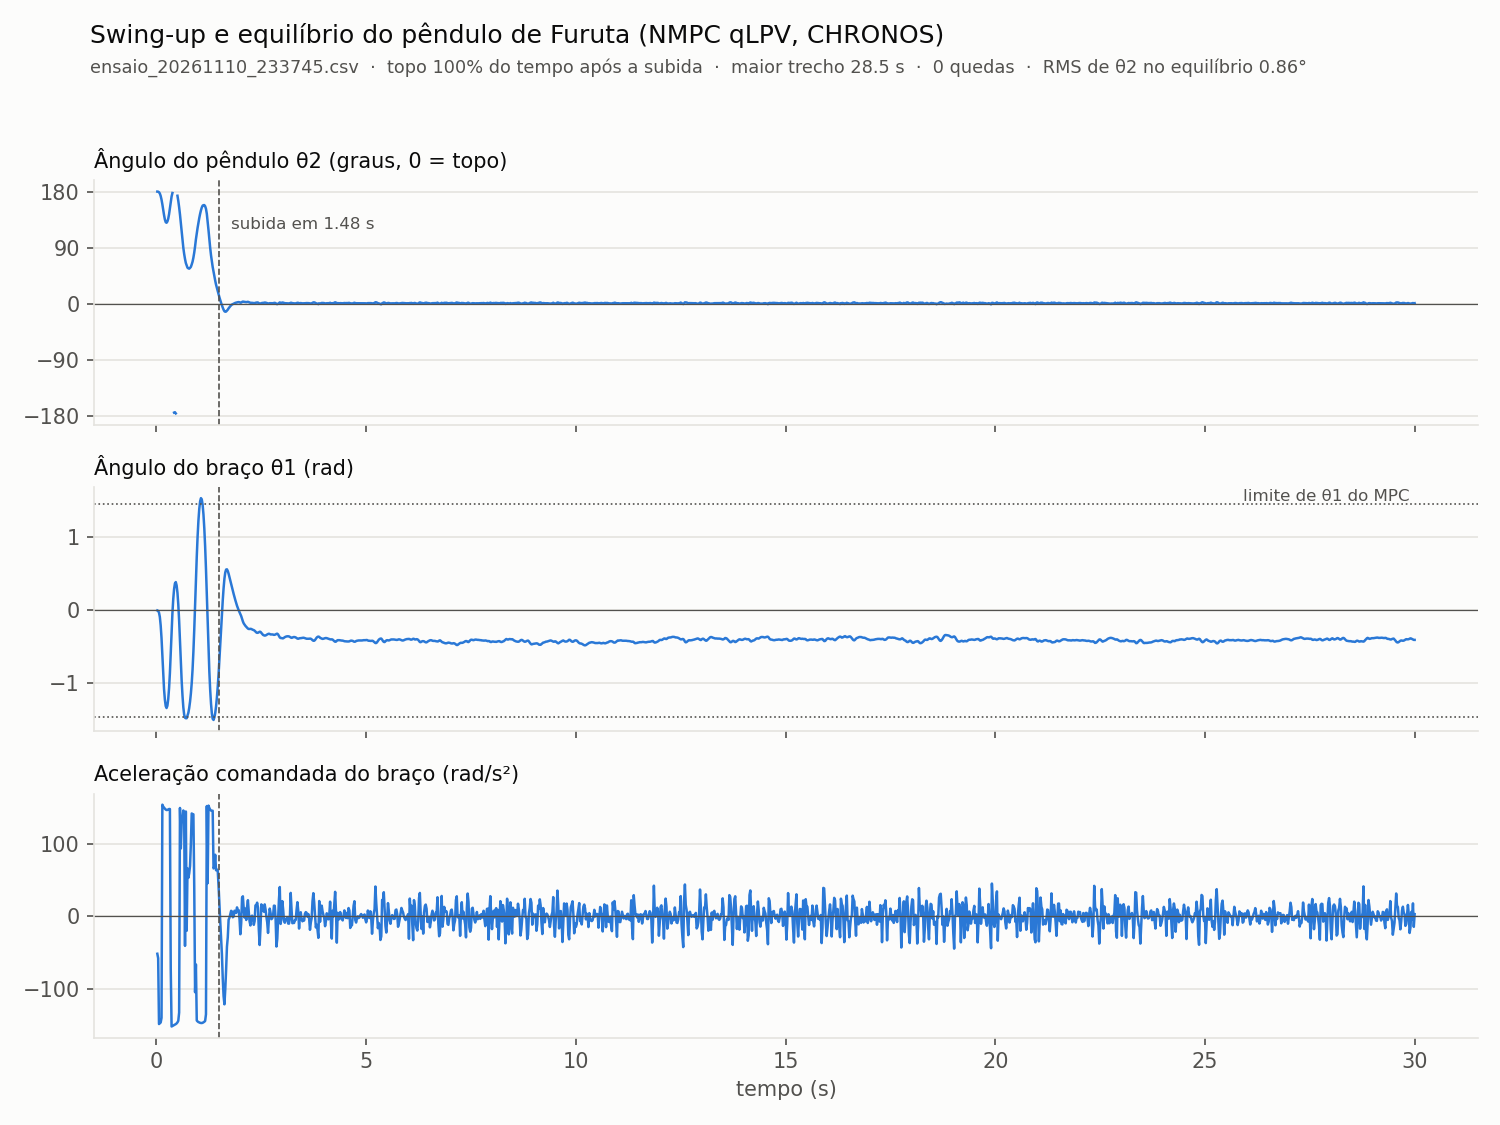
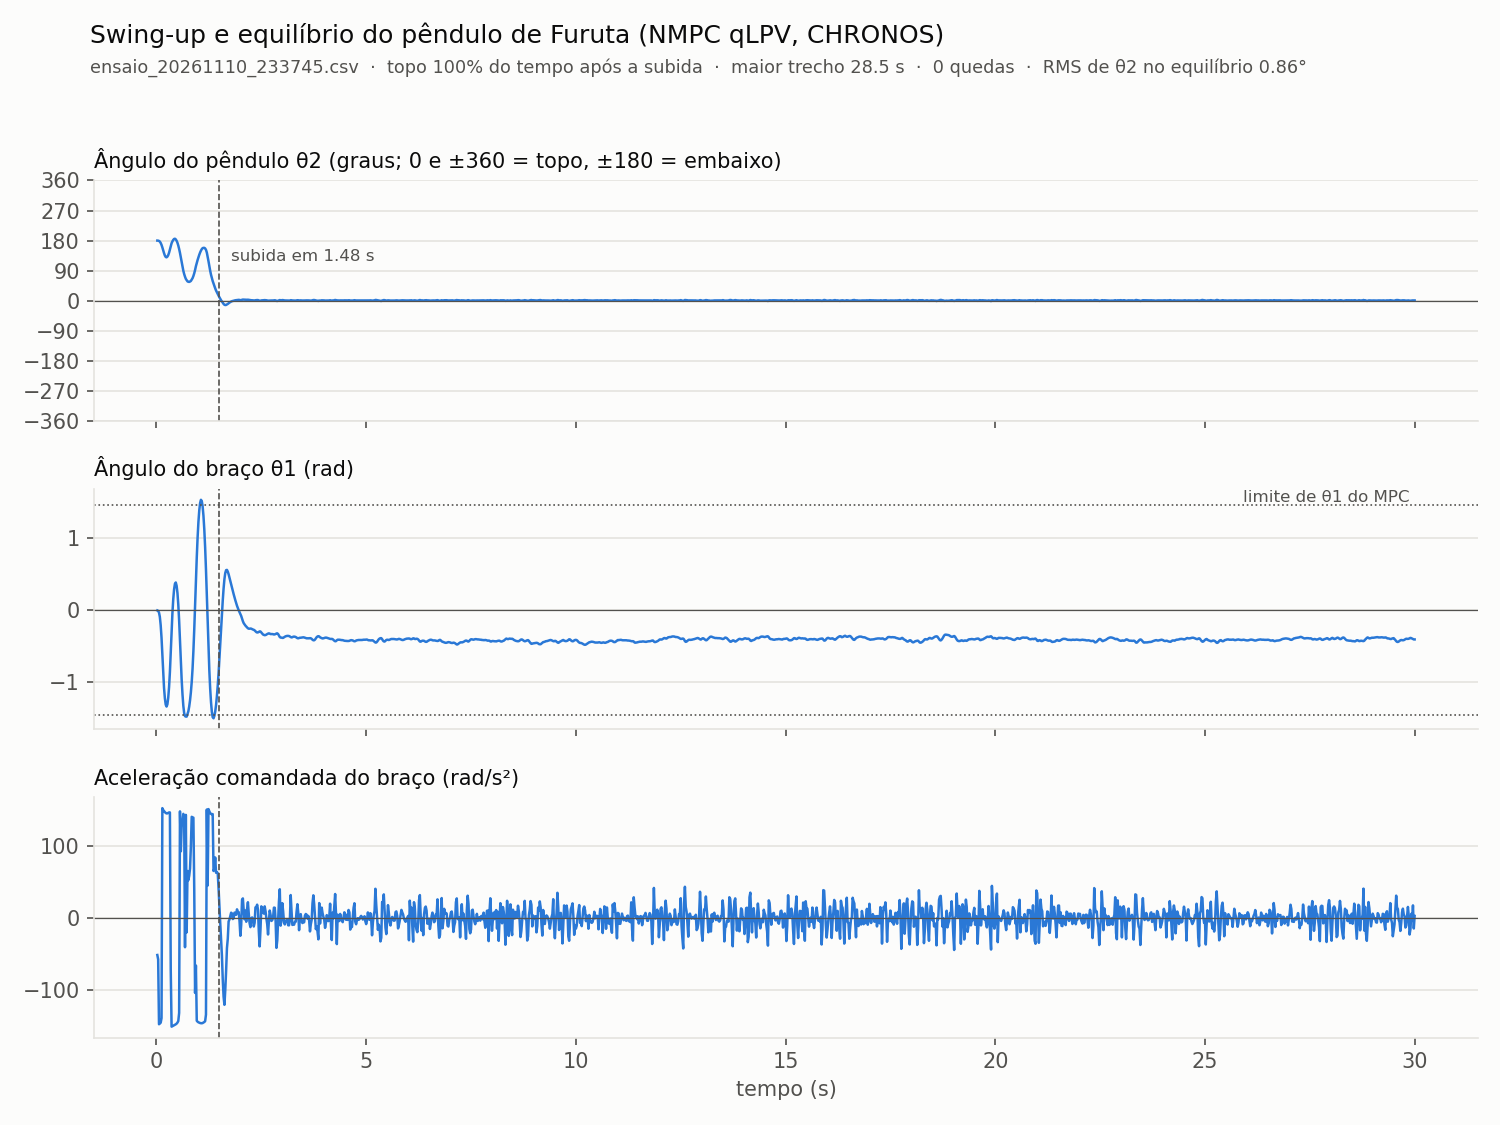
graficos.py: θ2 contínuo no eixo ±360° (sem cortar quando passa por baixo)

diff --git a/pc/graficos.py b/pc/graficos.py
@@ -75,10 +75,9 @@ def grafico(arq, saida):
     plt.rcParams.update({"font.size": 10, "axes.edgecolor": GRADE, "axes.labelcolor": TEXTO2,
                          "xtick.color": TEXTO2, "ytick.color": TEXTO2, "text.color": TEXTO})
     fig, ax = plt.subplots(3, 1, figsize=(10, 7.5), sharex=True, facecolor=FUNDO)
-    w = np.degrees(D["w"])
-    w[1:][np.abs(np.diff(w)) > 180] = np.nan        # não liga ±180° quando o pêndulo passa por baixo
+    w = np.degrees(D["theta2"])                      # contínuo (sem dobrar em ±180°): topo em 0 ou ±360
     paineis = [
-        (w, "Ângulo do pêndulo θ2 (graus, 0 = topo)"),
+        (w, "Ângulo do pêndulo θ2 (graus; 0 e ±360 = topo, ±180 = embaixo)"),
         (D["theta1"], "Ângulo do braço θ1 (rad)"),
         (D["a"], "Aceleração comandada do braço (rad/s²)"),
     ]
@@ -92,7 +91,8 @@ def grafico(arq, saida):
             a.spines[s].set_visible(False)
         if M:
             a.axvline(M["subida"], color=TEXTO2, lw=0.8, ls="--")
-    ax[0].set_yticks([-180, -90, 0, 90, 180])
+    ax[0].set_ylim(-360, 360)
+    ax[0].set_yticks(np.arange(-360, 361, 90))
     for v in (1.46, -1.46):
         ax[1].axhline(v, color=TEXTO2, lw=0.8, ls=":")
     ax[1].text(t[-1], 1.46, "limite de θ1 do MPC ", va="bottom", ha="right", fontsize=8, color=TEXTO2)
